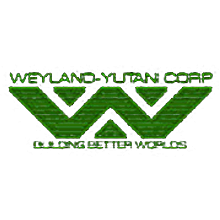
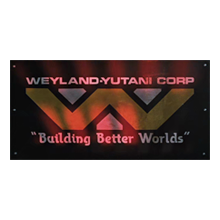
Change asset

diff --git a/index.html b/index.html
@@ -64,7 +64,11 @@
         <header>
             <h1 class="textLarge">Brad Woods</h1>
             <p class="textMed">Front-end engineer</p>
-            <img alt="TODO" id="killBill" src="images/killBill.png" />
+            <img
+                alt="A samuari sword"
+                id="killBill"
+                src="images/killBill.png"
+            />
         </header>
 
         <!-- PRINCE ------------------------------------------------------>
@@ -84,7 +88,7 @@
                 id="beBop"
                 src="images/beBop.png"
             />
-            <img alt="TODO" id="dune" src="images/dune.png" />
+            <img alt="A sci-fi space ship" id="dune" src="images/dune.png" />
         </div>
 
         <!-- DOOM ------------------------------------------------>
@@ -103,7 +107,11 @@
                     src="images/doom3.png"
                 />
             </section>
-            <img alt="TODO" id="aliens" src="images/aliens.png" />
+            <img
+                alt="An industrial sign with a 'w' icon & Weyland-Yutani corp 'Building Better Worlds' written on it."
+                id="aliens"
+                src="images/aliens.png"
+            />
             <svg id="hud" aria-hidden="true" viewBox="0 0 220 220">
                 <text x="0" y="12">X3</text>
                 <text x="0" y="200">Ammo: 16</text>
@@ -193,7 +201,11 @@
                 <img alt="" src="images/johnnyCabLights1.png" />
                 <img alt="" src="images/johnnyCabLights2.png" />
             </section>
-            <img alt="TODO" id="xMen" src="images/xMen.png" />
+            <img
+                alt="A man shooting a laser beam out of his eyes & a robot reaching for him."
+                id="xMen"
+                src="images/xMen.png"
+            />
         </div>
 
         <footer>

diff --git a/styles.css b/styles.css
@@ -393,13 +393,13 @@ div#doomSquare svg#hud text {
     fill: var(--color-text-overlay);
 }
 
-/* div#doomSquare:hover section#doom {
+div#doomSquare:hover section#doom {
     display: none;
 }
 
 div#doomSquare:hover img#aliens {
     display: unset;
-} */
+}
 
 /* MATRIX ------------------------------------------------------ */
 div#matrixSquare {
